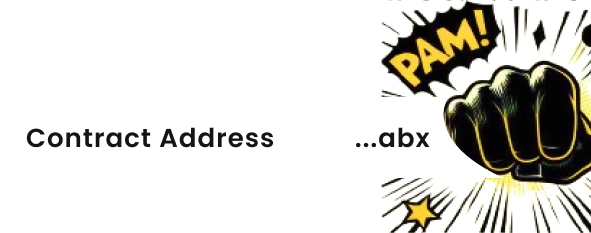
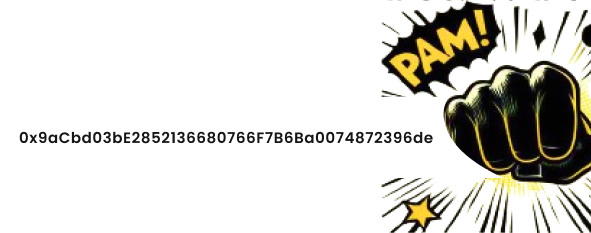
touchup

Changed region(s): [[0.0305, 0.5408, 0.731, 0.6309]]

diff --git a/src/Pages/Tokenomics.jsx b/src/Pages/Tokenomics.jsx
@@ -1,6 +1,17 @@
-import React from "react";
+import React, { useState } from "react";
+import Tooltip from "@mui/material/Tooltip";
 
 export default function Tokenomics() {
+  const [msg, setmsg] = useState("copy");
+  const handleCopyToClipboard = () => {
+    const textToCopy = "0x9aCbd03bE2852136680766F7B6Ba0074872396de";
+    navigator.clipboard.writeText(textToCopy).then(() => {
+      setmsg("Text copied to clipboard:");
+      setTimeout(() => {
+        setmsg("copy");
+      }, 1000);
+    });
+  };
   return (
     <section
       id="Tokenomics"
@@ -13,9 +24,10 @@ export default function Tokenomics() {
         <p className="tokenomics-title">TOKENOMICS</p>
         <p className="tokenomics-description w-3/4 md:w-full">
           Straight right, lightning uppercut, agile sidestep, devastating liver
-          shot - that's the rhythm of victory with $PUNCH.<br/>Each token is a punch
-          thrown in the fight for dominance, each investor a warrior in our
-          corner.
+          shot - that's the rhythm of victory with $PUNCH.
+          <br />
+          Each token is a punch thrown in the fight for dominance, each investor
+          a warrior in our corner.
         </p>
       </div>
       <div className="flex w-4/5 md:w-11/12 md:flex-col justify-between md:gap-8 mt-8">
@@ -90,11 +102,14 @@ export default function Tokenomics() {
               <br /> 1,000,000,000 $PUNCH
             </p>
           </div>
-          <img
-            src="/assets/tokenomicscontactbutton.png"
-            alt=""
-            className="cursor-pointer"
-          />
+          <Tooltip title={msg}>
+            <img
+              src="/assets/tokenomicscontactbutton.png"
+              alt=""
+              className="cursor-pointer"
+              onClick={handleCopyToClipboard}
+            />
+          </Tooltip>
         </div>
       </div>
     </section>
